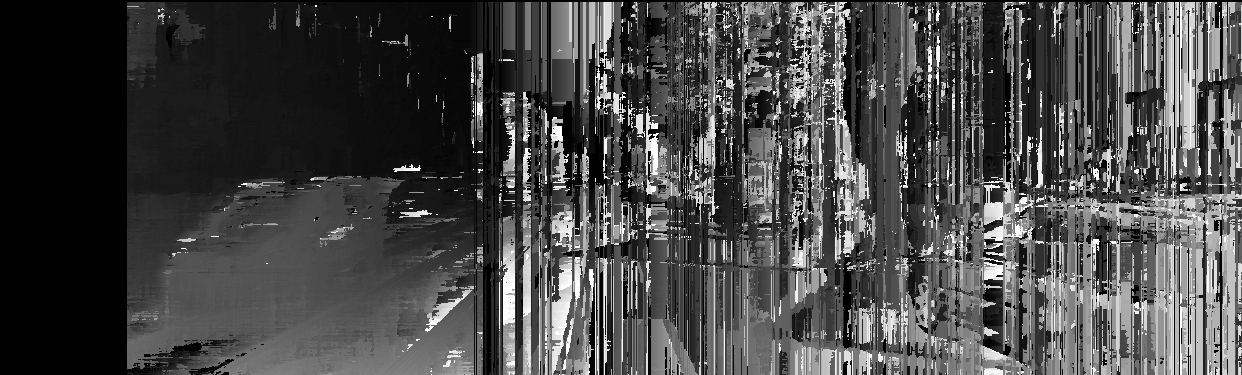
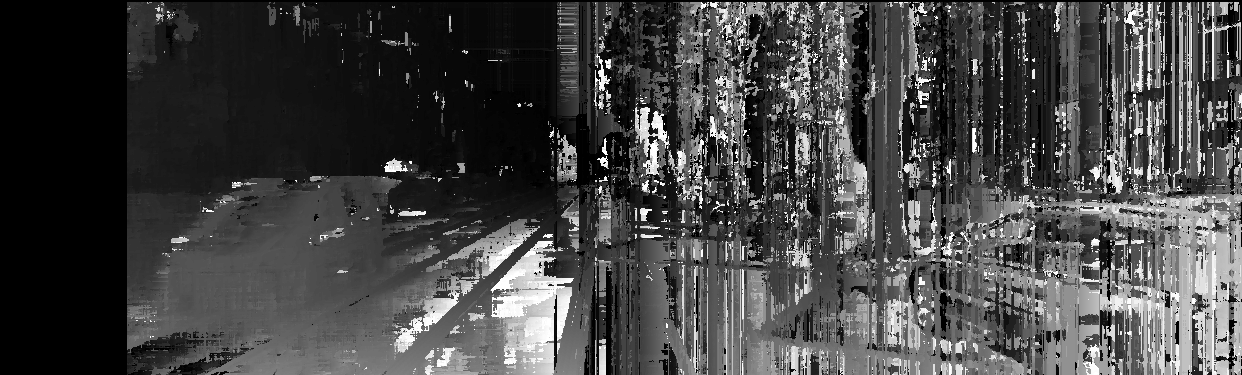
sgm_kernel: Aggregate cost in 4 directions

diff --git a/sgm_kernel.cpp b/sgm_kernel.cpp
@@ -4,8 +4,6 @@
 const cost_t P1 = cost_t(10);
 const cost_t P2 = cost_t(150);
 
-static const cost_t INF_COST = cost_t(4095);
-
 void sgm_kernel(hls::stream<pix_t>& left,
                 hls::stream<pix_t>& right,
                 hls::stream<pix_t>& disp)
@@ -37,20 +35,46 @@ void sgm_kernel(hls::stream<pix_t>& left,
 #pragma HLS bind_storage variable=aggCost type=RAM_1P impl=BRAM
 #pragma HLS ARRAY_PARTITION variable=aggCost complete dim=1
 
-    	static cost_t aggLR_arr[DISP];
-        static cost_t aggTB_arr[DISP];
-    #pragma HLS ARRAY_PARTITION variable=aggLR_arr complete dim=1
-    #pragma HLS ARRAY_PARTITION variable=aggTB_arr complete dim=1
+    static cost_t aggLR_arr[DISP];
+    static cost_t aggTB_arr[DISP];
+#pragma HLS ARRAY_PARTITION variable=aggLR_arr complete dim=1
+#pragma HLS ARRAY_PARTITION variable=aggTB_arr complete dim=1
+
+    /* Reverse-pass state (R->L, B->T) */
+
+    static cost_t prevCostR[DISP];
+#pragma HLS bind_storage variable=prevCostR type=RAM_1P impl=BRAM
+#pragma HLS ARRAY_PARTITION variable=prevCostR complete dim=1
+
+    static cost_t prevCostB[IMG_W][DISP];
+#pragma HLS bind_storage variable=prevCostB type=RAM_1P impl=BRAM
+#pragma HLS ARRAY_PARTITION variable=prevCostB complete dim=2
+
+    static cost_t partialCost[IMG_H][IMG_W][DISP];
+#pragma HLS bind_storage variable=partialCost type=RAM_2P impl=BRAM
+#pragma HLS ARRAY_PARTITION variable=partialCost complete dim=3
+
+
+    static pix_t imgL[IMG_H][IMG_W];
+    static pix_t imgR[IMG_H][IMG_W];
+#pragma HLS bind_storage variable=imgL type=RAM_2P impl=BRAM
+#pragma HLS bind_storage variable=imgR type=RAM_2P impl=BRAM
+
+    static pix_t dispBuf[IMG_H][IMG_W];
+#pragma HLS bind_storage variable=dispBuf type=RAM_2P impl=BRAM
+
+
+
 
     /* center offsets */
     const int cy = WIN >> 1;
     const int cx = WIN >> 1;
 
-Row:
+RowFwd:
     for (int r = 0; r < IMG_H; r++)
     {
         /* Reset aggregation for new row */
-    ResetCosts:
+    ResetCostsFwd:
         for (int d = 0; d < DISP; d++)
         {
 		#pragma HLS UNROLL
@@ -74,7 +98,7 @@ Row:
 
         }
 
-    Col:
+    ColFwd:
         for (int c = 0; c < IMG_W; c++)
         {
 		#pragma HLS PIPELINE II=1
@@ -85,10 +109,12 @@ Row:
             pix_t pL = left.read();
             pix_t pR = right.read();
 
+            imgL[r][c] = pL;
+            imgR[r][c] = pR;
+
             /* Update left line buffer at column c */
             bufL.shift_up(c);
             bufL.insert_bottom(pL, c);
-
             bufR.shift_up(c);
             bufR.insert_bottom(pR, c);
 
@@ -98,31 +124,31 @@ Row:
             if (r >= WIN - 1)
             {
                 /* Calculate SAD matching cost for all disparities */
-            SAD_Loop:
+            SAD_LoopFwd:
                 for (int d = 0; d < DISP; d++)
                 {
 				#pragma HLS UNROLL
                     cost_t sum = 0;
-                WinY:
+                WinYFwd:
                     for (int wy = 0; wy < WIN; wy++)
                     {
-                    #pragma HLS UNROLL
-                    WinX:
+					#pragma HLS UNROLL
+                    WinXFwd:
                         for (int wx = 0; wx < WIN; wx++)
                         {
                         #pragma HLS UNROLL
                             int colL = c + wx - cx;
                             pix_t lpx = pix_t(0);
+
                             if (colL >= 0 && colL < IMG_W)
-                            {
                                 lpx = bufL.getval(wy, colL);
-                            }
+
                             int col_r = c - d + wx - cx;
                             pix_t rpx = pix_t(0);
+
                             if (col_r >= 0 && col_r < IMG_W)
-                            {
                             	rpx = bufR.getval(wy, col_r);
-                            }
+
                             sum += absdiff(lpx, rpx);
                         }
                     }
@@ -131,6 +157,7 @@ Row:
 
                 /* find minPrev over prevCostL */
                 cost_t minPrevLR = INF_COST;
+
             MinLoopLR:
                 for (int d = 0; d < DISP; d++)
                 {
@@ -149,10 +176,7 @@ Row:
                           minPrevTB = v;
                   }
 
-                cost_t bestCost = INF_COST;
-                disp_t bestDisp = 0;
-
-            AggregationLoop:
+            AggregationLoopFwd:
                 for (int d = 0; d < DISP; d++)
                 {
 				#pragma HLS UNROLL
@@ -174,7 +198,7 @@ Row:
 
 
                     cost_t p0_TB = prevCostT[c][d];
-                    cost_t p1_TB = (d > 0)      ? sat12(prevCostT[c][d-1] + P1) :
+                    cost_t p1_TB = (d > 0) ? sat12(prevCostT[c][d-1] + P1) :
                     		INF_COST;
                     cost_t p2_TB = (d < DISP-1) ? sat12(prevCostT[c][d+1] + P1) :
                     		INF_COST;
@@ -191,30 +215,131 @@ Row:
 
                     cost_t sum2 = sat12(aggLR + aggTB);
                     aggCost[d] = sum2;
-
-                    if (sum2 < bestCost)
-                    {
-                        bestCost = sum2;
-                        bestDisp = disp_t(d);
-                    }
                 }
 
                 /* Copy aggregated costs to prevCostL for the next pixel */
-            CopyPrevLR:
+            CopyPrevLRFwd:
                 for (int d = 0; d < DISP; ++d)
                 {
 				#pragma HLS UNROLL
                     prevCostL[d] = aggLR_arr[d];
                     prevCostT[c][d] = aggTB_arr[d];
+                    partialCost[r][c][d] = aggCost[d];
                 }
 
-                if (c >= DISP - 1)
-                {
-                    outDisp = bestDisp;
-                }
+               }
             }
 
-            disp.write(outDisp);
         }
-    }
+
+        InitBT:
+            for (int c = 0; c < IMG_W; ++c)
+            {
+        	#pragma HLS LOOP_TRIPCOUNT min=IMG_W max=IMG_W
+              for (int d = 0; d < DISP; ++d)
+              {
+			  #pragma HLS UNROLL
+                prevCostB[c][d] = cost_t(0);
+              }
+            }
+
+         RowRev:
+             for (int r = IMG_H - 1; r >= 0; --r)
+                {
+                ResetCostsRev:
+                    for (int d = 0; d < DISP; d++)
+                    {
+            		#pragma HLS UNROLL
+                        prevCostR[d] = cost_t(0);
+                    }
+
+                ColRev:
+                    for (int c = IMG_W - 1; c >= 0; --c)
+                    {
+                    #pragma HLS PIPELINE II=1
+                    	pix_t outDisp = 0;
+
+                    	if (r >= WIN - 1)
+                    	{
+
+                    SAD_LoopRev:
+						for (int d = 0; d < DISP; d++)
+						{
+                    	#pragma HLS UNROLL
+							cost_t sum = 0;
+
+                    		WinYRev:
+							for (int wy = 0; wy < WIN; wy++)
+							{
+                    		#pragma HLS UNROLL
+								WinXRev:
+								for (int wx = 0; wx < WIN; wx++)
+								{
+								#pragma HLS UNROLL
+						            int rr = r - (WIN - 1) + wy;
+						            int ccL = c + wx - cx;
+						            int ccR = (c - d) + wx - cx;
+						            pix_t lpx = pix_t(0), rpx = pix_t(0);
+						            if (rr >= 0 && rr < IMG_H && ccL >= 0 && ccL < IMG_W)
+						            	lpx = imgL[rr][ccL];
+						            if (rr >= 0 && rr < IMG_H && ccR >= 0 && ccR < IMG_W)
+						            	rpx = imgR[rr][ccR];
+						             sum += absdiff(lpx, rpx);
+						         }
+						     }
+						    curCost[d] = sum;
+						}
+		                cost_t minPrevRL = min_array(prevCostR, DISP);
+		                cost_t minPrevBT = min_array(prevCostB[c], DISP);
+
+		                cost_t bestCost = INF_COST;
+		                disp_t bestDisp = 0;
+
+		            AggregationLoopRev:
+					for (int d = 0; d < DISP; d++)
+					{
+					#pragma HLS UNROLL
+						cost_t p0_RL = prevCostR[d];
+						cost_t p1_RL = (d > 0) ? sat12(prevCostR[d-1] + P1) : INF_COST;
+						cost_t p2_RL = (d < DISP-1) ? sat12(prevCostR[d+1] + P1) : INF_COST;
+						cost_t p3_RL = sat12(minPrevRL + P2);
+						cost_t minRL = min4(p0_RL, p1_RL, p2_RL, p3_RL);
+						cost_t aggRL = sat12(curCost[d] + minRL - minPrevRL);
+
+	                    cost_t p0_BT = prevCostB[c][d];
+	                    cost_t p1_BT = (d > 0)      ? sat12(prevCostB[c][d-1] + P1) : INF_COST;
+	                    cost_t p2_BT = (d < DISP-1) ? sat12(prevCostB[c][d+1] + P1) : INF_COST;
+	                    cost_t p3_BT = sat12(minPrevBT + P2);
+	                    cost_t minBT = min4(p0_BT, p1_BT, p2_BT, p3_BT);
+	                    cost_t aggBT = sat12(curCost[d] + minBT - minPrevBT);
+
+
+	                    cost_t fwd = partialCost[r][c][d];
+	                    cost_t sum4 = sat12( sat12(fwd + aggRL) + aggBT );
+
+	                    if (sum4 < bestCost)
+	                    {
+	                    	bestCost = sum4; bestDisp = disp_t(d);
+	                    }
+                    	prevCostR[d]     = aggRL;
+                    	prevCostB[c][d]  = aggBT;
+                   }
+                   if (c >= DISP - 1)
+                   {
+                	   outDisp = bestDisp;
+                   }
+               }
+
+               dispBuf[r][c] = outDisp;
+             }
+      }
+   FlushDisp:
+   for (int rr = 0; rr < IMG_H; ++rr)
+   {
+	   for (int cc = 0; cc < IMG_W; ++cc)
+	   {
+		   #pragma HLS PIPELINE II=1
+		   	   disp.write(dispBuf[rr][cc]);
+        }
+   }
 }

diff --git a/sgm_params.hpp b/sgm_params.hpp
@@ -14,6 +14,8 @@ constexpr int IMG_W = 1242;
 constexpr int DISP  = 128;
 constexpr int WIN   = 3;
 
+static const cost_t INF_COST = cost_t(4095);
+
 /*---------------------------------------------------------------------------*/
 static inline pix_t absdiff(pix_t a, pix_t b)
 {
@@ -25,6 +27,26 @@ static inline cost_t sat12(unsigned val)
 {
 #pragma HLS INLINE
     return (val > 4095u) ? cost_t(4095) : cost_t(val);
+}
+
+static inline cost_t min4(cost_t a, cost_t b, cost_t c, cost_t d)
+{
+#pragma HLS INLINE
+  cost_t m1 = (a < b) ? a : b;
+  cost_t m2 = (c < d) ? c : d;
+  return (m1 < m2) ? m1 : m2;
+}
+
+static inline cost_t min_array(const cost_t *v, int n)
+{
+#pragma HLS INLINE
+  cost_t m = INF_COST;
+  for (int i = 0; i < n; ++i)
+  {
+  #pragma HLS UNROLL
+    if (v[i] < m) m = v[i];
+  }
+  return m;
 }
 
 #include <hls_stream.h>
